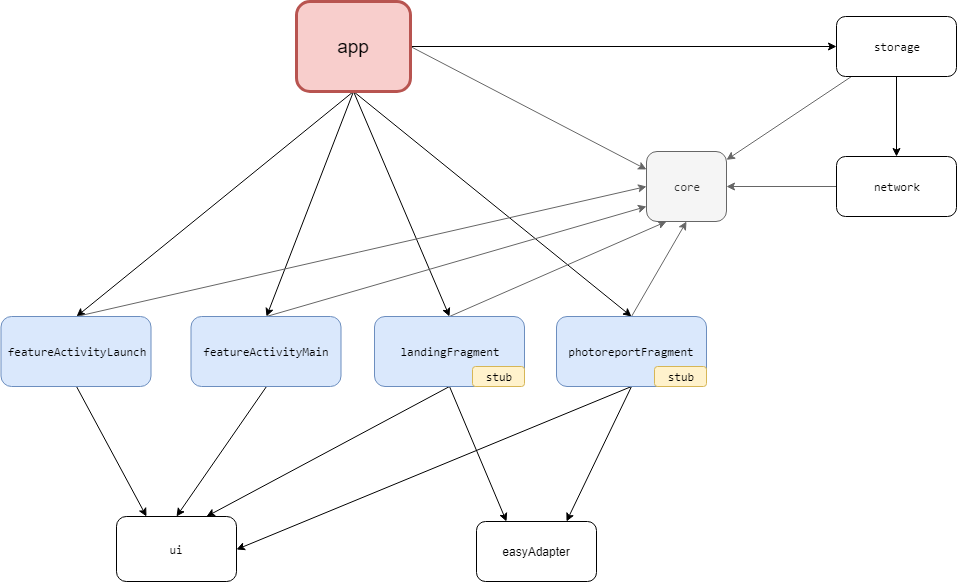
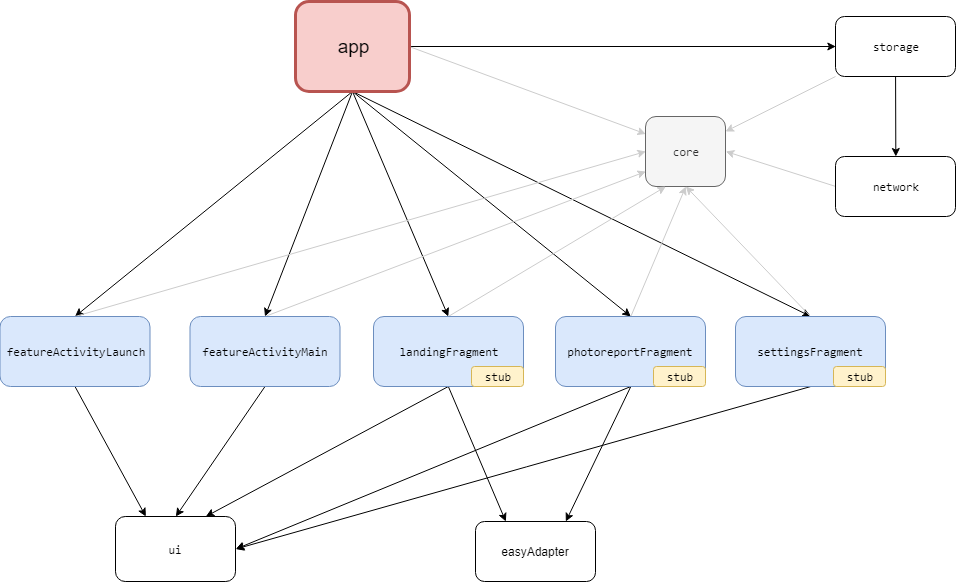
Add stub feature for SettingsFragment, update modules diagram

diff --git a/sources/feature/settingsFragment/stub/src/main/java/com/egoriku/settings/di/SettingsFeatureSharedComponent.kt b/sources/feature/settingsFragment/stub/src/main/java/com/egoriku/settings/di/SettingsFeatureSharedComponent.kt
@@ -1,0 +1,23 @@
+package com.egoriku.settings.di
+
+import com.egoriku.core.actions.ISettingsFragmentAction
+import com.egoriku.core.di.SettingsFeatureProvider
+import com.egoriku.settings.action.SettingsFragmentAction
+import dagger.Component
+import dagger.Module
+import dagger.Provides
+
+@Component(modules = [SettingsSharedModule::class])
+interface SettingsFeatureSharedComponent : SettingsFeatureProvider {
+
+    companion object {
+        fun init(): SettingsFeatureProvider = DaggerSettingsFeatureSharedComponent.create()
+    }
+}
+
+@Module
+class SettingsSharedModule {
+
+    @Provides
+    fun provideAction(): ISettingsFragmentAction = SettingsFragmentAction()
+}

diff --git a/sources/feature/settingsFragment/stub/src/main/java/com/egoriku/settings/action/SettingsFragmentAction.kt b/sources/feature/settingsFragment/stub/src/main/java/com/egoriku/settings/action/SettingsFragmentAction.kt
@@ -1,0 +1,9 @@
+package com.egoriku.settings.action
+
+import com.egoriku.core.actions.ISettingsFragmentAction
+import com.google.android.material.bottomsheet.BottomSheetDialogFragment
+
+class SettingsFragmentAction : ISettingsFragmentAction {
+
+    override fun provideFragment() = BottomSheetDialogFragment()
+}
